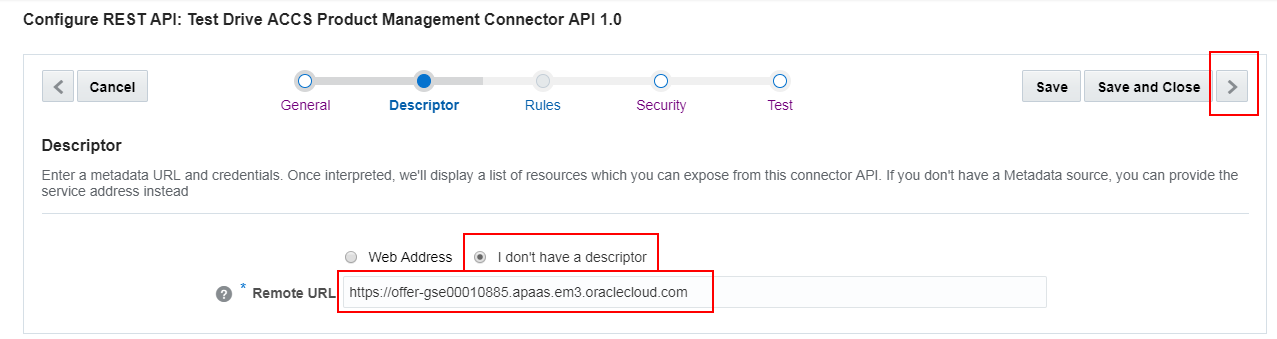
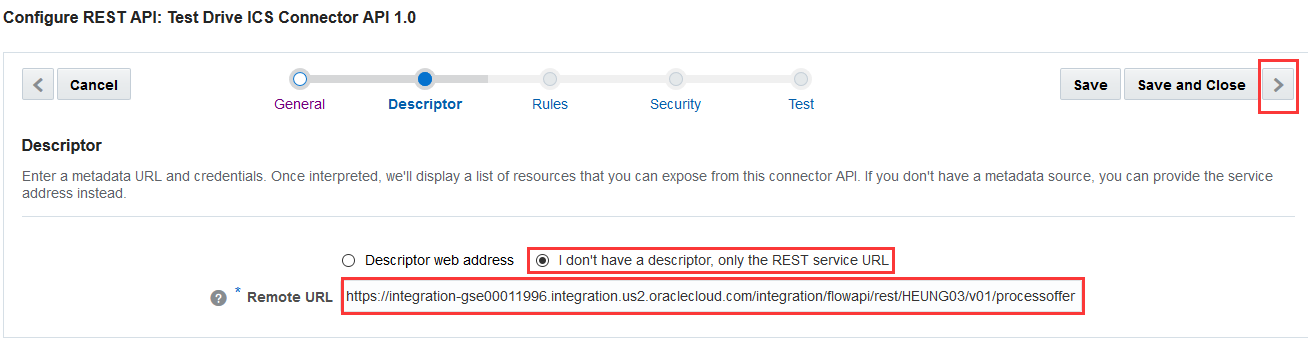
Updated to create all three connectors, and update the names in custom API implementation

diff --git a/Mobile Service and App/403-MobileLab.md b/Mobile Service and App/403-MobileLab.md
@@ -124,7 +124,7 @@ Now that you have the API defined, it's time to implement the API with JavaScrip
 
 1. Download prebuilt implementation: We've provided a prebuilt implementation package for you which you can download by right clicking [loyaltymanagementapi_1.0.zip](https://github.com/APACTestDrive/CloudNative_Mobile/blob/MobileLab-short-delta-only/common/assets/mobile/loyaltymanagementapi_1.0.zip?raw=true) and select "Save link as...".
 
-2. Unzip the package. Edit `/loyaltymanagementapi/package.json` to add your postfix (e.g.: 01) into the "name" and the "TestDriveACCSPtMgtConnectorAPI" to match your custom API name and the Product Information API connector name as shown in the below diagram.
+2. Unzip the package. Edit `/loyaltymanagementapi/package.json` to add your postfix (e.g.: 01) into the "name", the "TestDriveICSConnectorAPI", "TestDriveACCSPtMgtConnectorAPI", "TestDriveACCSCtdQRConnectorAPI" to match your custom API name and the connector API names as shown in the below diagram.
 
 ![](../common/images/mobile/403-Editing_Package_Json.png)
 
@@ -134,8 +134,14 @@ Now that you have the API defined, it's time to implement the API with JavaScrip
 
    - Change the endpoint url to match your own API: Search for `/mobile/custom/LoyaltyManagementAPI` and replace all occurrences with `/mobile/custom/LoyaltyManagementAPI0X`(0X is your own postfix, e.g.: 01).
 
-   - Change the product information connector references in the code
+   - Change the Product Management connector references in the code
      - Search for `TestDriveACCSPtMgtConnectorAPI` and replace all occurrences with `TestDriveACCSPtMgtConnectorAPI0X` (0X is your own postfix, e.g.: 01).
+     
+   - Change the QR Code connector references in the code
+     - Search for `TestDriveACCSCtdQRConnectorAPI` and replace all occurrences with `TestDriveACCSCtdQRConnectorAPI0X` (0X is your own postfix, e.g.: 01).
+     
+   - Change the Process Offer connector references in the code
+     - Search for `TestDriveICSConnectorAPI` and replace all occurrences with `TestDriveICSConnectorAPI0X` (0X is your own postfix, e.g.: 01).
 
 
 4. Repack and upload: Put `package.json` file and `loyaltymanagementapi.js` file back into the original zip pack, navigate to the 'Implementation' tab of the current custom API, then click on “Upload an implementation archive” and select the updated zip pack `loyaltymanagementapi_1.0.zip`.

diff --git a/Mobile Service and App/402-MobileLab.md b/Mobile Service and App/402-MobileLab.md
@@ -21,7 +21,7 @@ For the above 3 Connector APIs, we will guide you through creating the "Product 
 - Loyalty management MBE created in the previous lab.
 
 ----
-#### Create "Process Offer" API Connector to update offer result ####
+#### Create "Process Offer" Connector API to update offer result ####
 In this lab, we will create a connector API to integrate ICS microservice for updating offer result. **[Note]** A connector API is for the custom APIs. It means a connector API doesn't have direct interactions with mobile applications. Mobile applications only interact with custom APIs and custom APIs will use the connector API to interact external services and systems.
 
 1. On the navigation pane, select “Applications” -> “Connectors”. Click on the “+ New Connector” green button and select “REST” from the dropdown list.
@@ -64,8 +64,14 @@ In this lab, we will create a connector API to integrate ICS microservice for up
 13. You shall see an HTTP 200 OK response at the bottom of the page and it is all set.
 ![](../common/images/mobile/402-ICS_Connector_Test_Result.png)
 
----
+----
+#### Create "Product Management" and "QR Code" Connector APIs ####
+Repeat the above steps to create another two connector APIs to integrate with the "Product Management" and "QR Code" microservices you created in the microservices lab. Since security is not implemented for these two microservices, you don't need to configure security policy for these two new connector APIs. Instead, you can simply create two REST connector APIs with the following informatoin. **[Note]** Remember to replace the '0X' in the API name, select 'I don't have a descriptor, only the REST service URL' in the 'Descriptor' step, and provide the Remote URL that you created for your microservices.
 
+    | Display API Name, API Name, Short Description | Remote URL |
+    | --------------------------------------------- | ---------- |
+    | TestDriveACCSPtMgtConnectorAPI0X | HOST URL of your product management service, i.e. https://offer-gse00000423.apaas.em2.oraclecloud.com |
+    | TestDriveACCSCtdQRConnectorAPI0X | HOST URL of your QR Code service, i.e. https://qrcodegenerator-gse00000423.apaas.em2.oraclecloud.com |
 
 
 You have finished this lab successfully.
